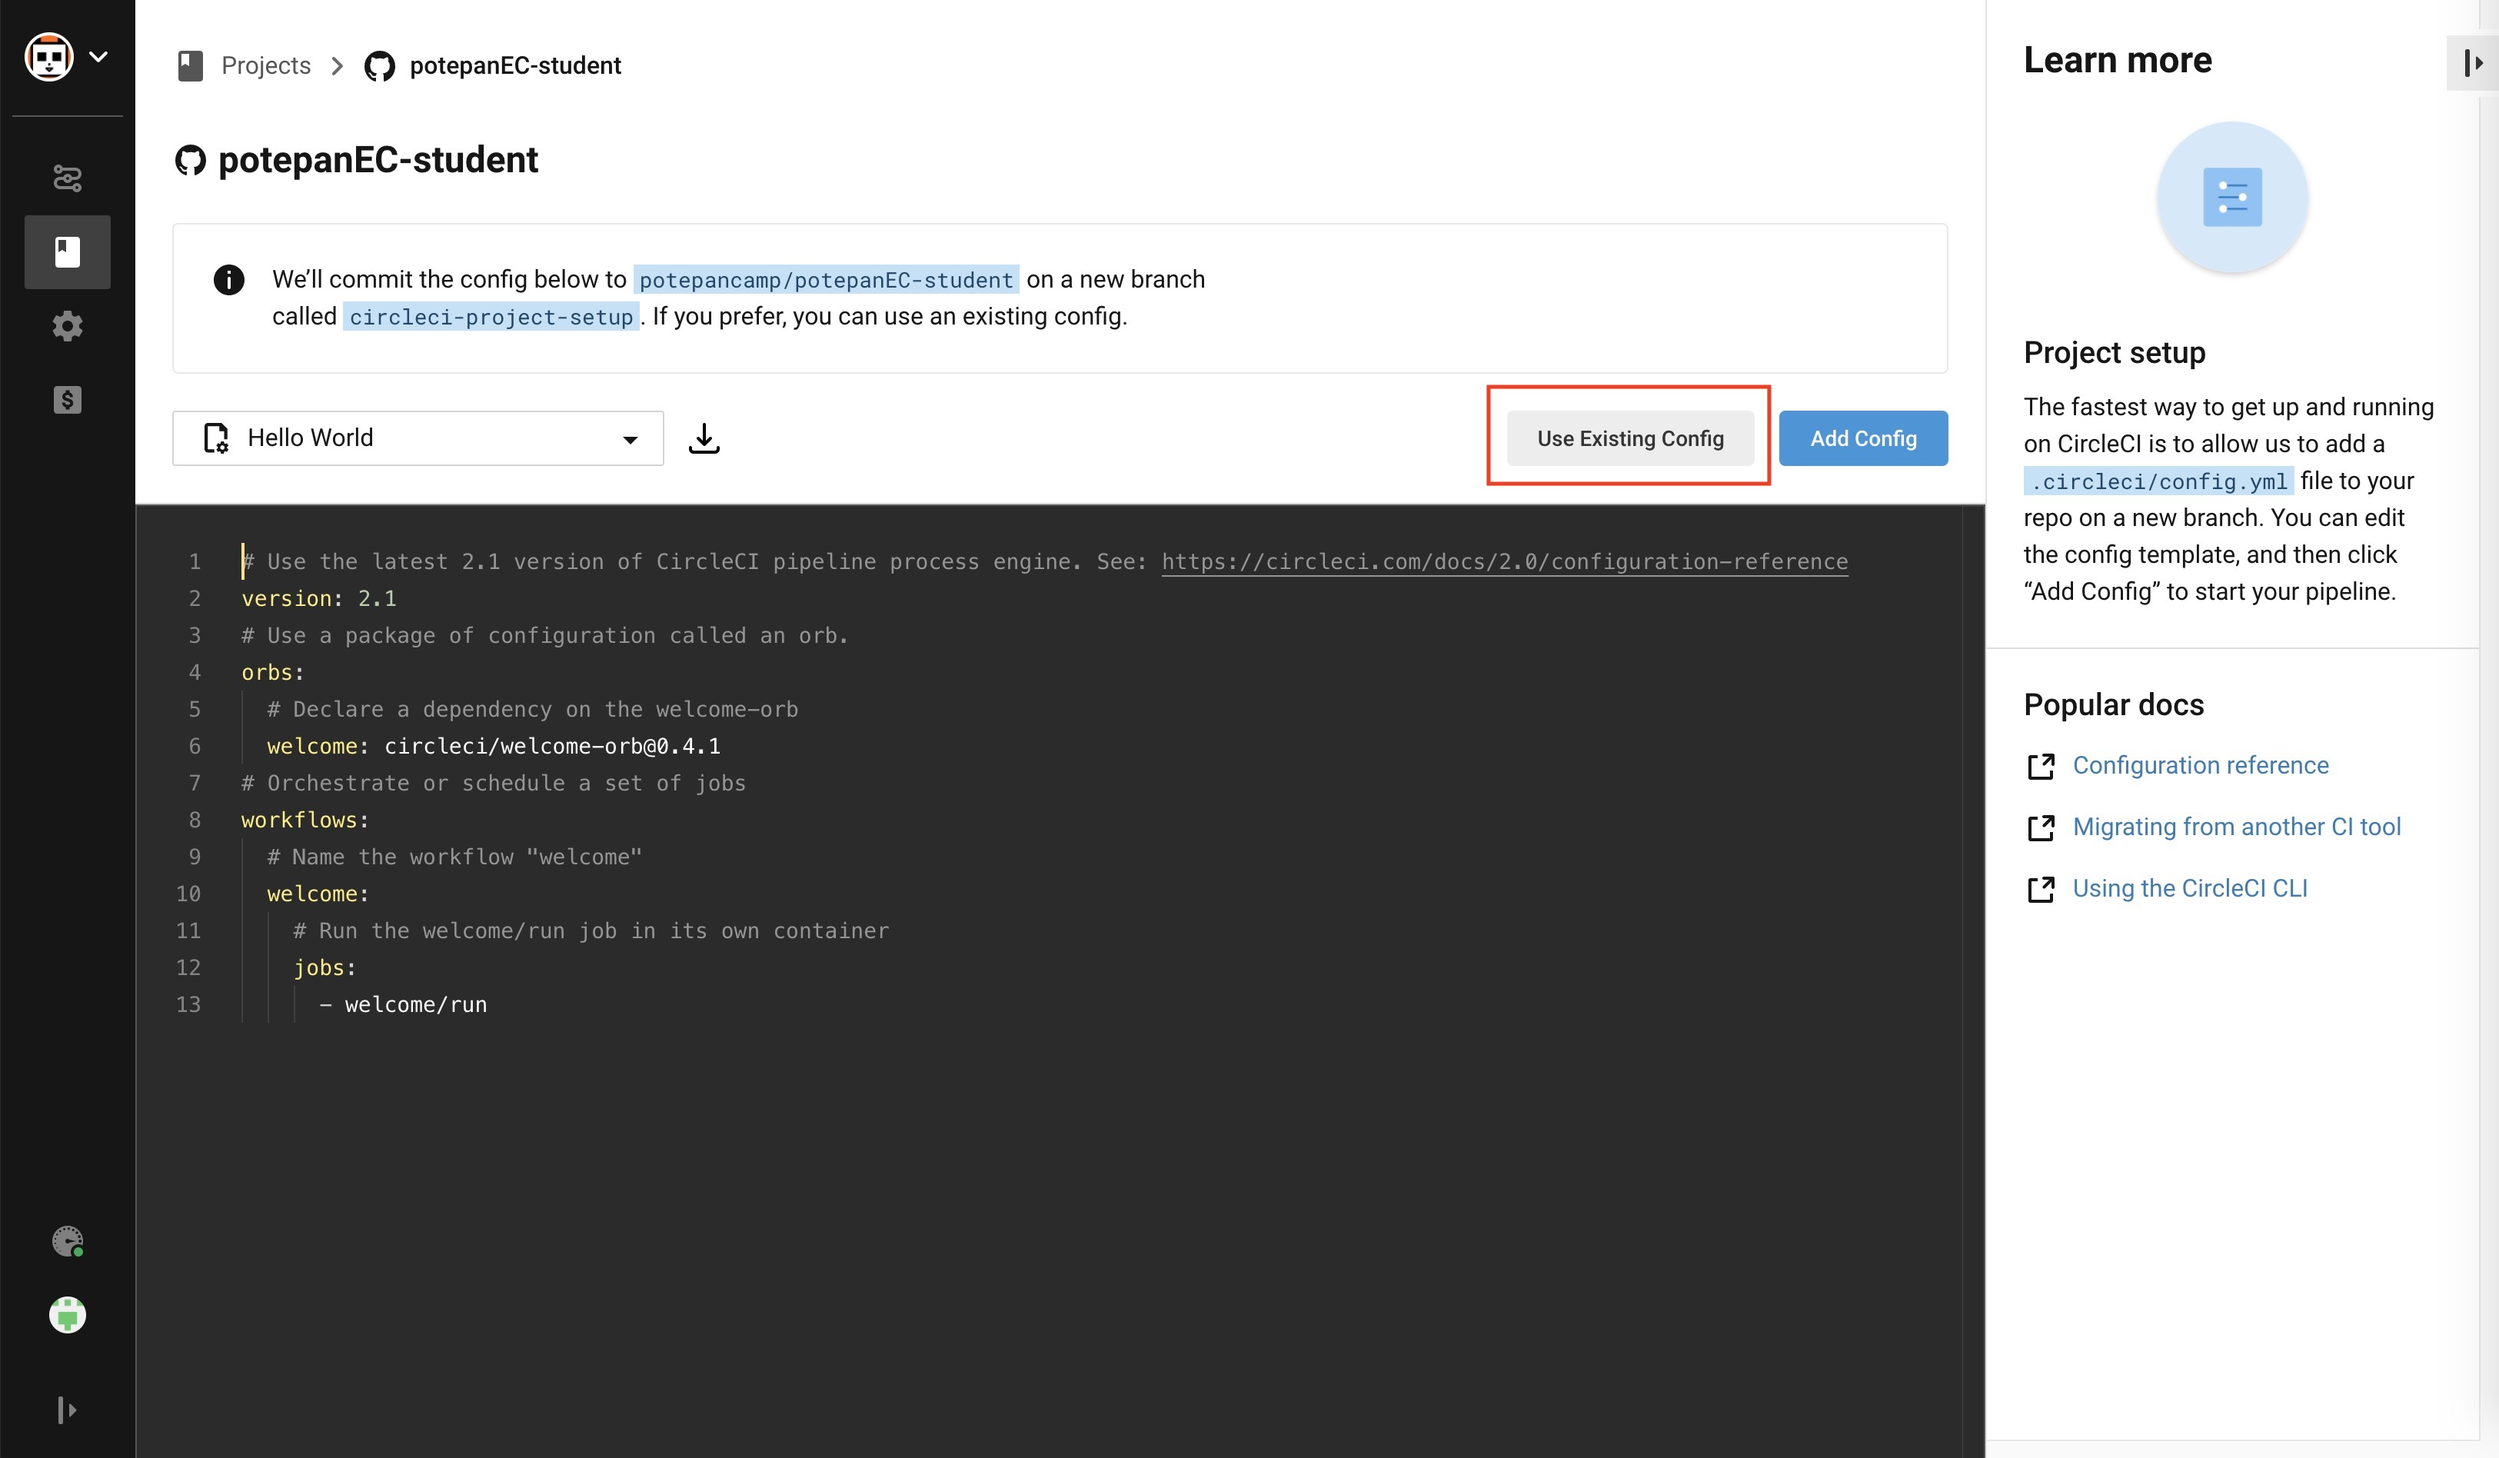
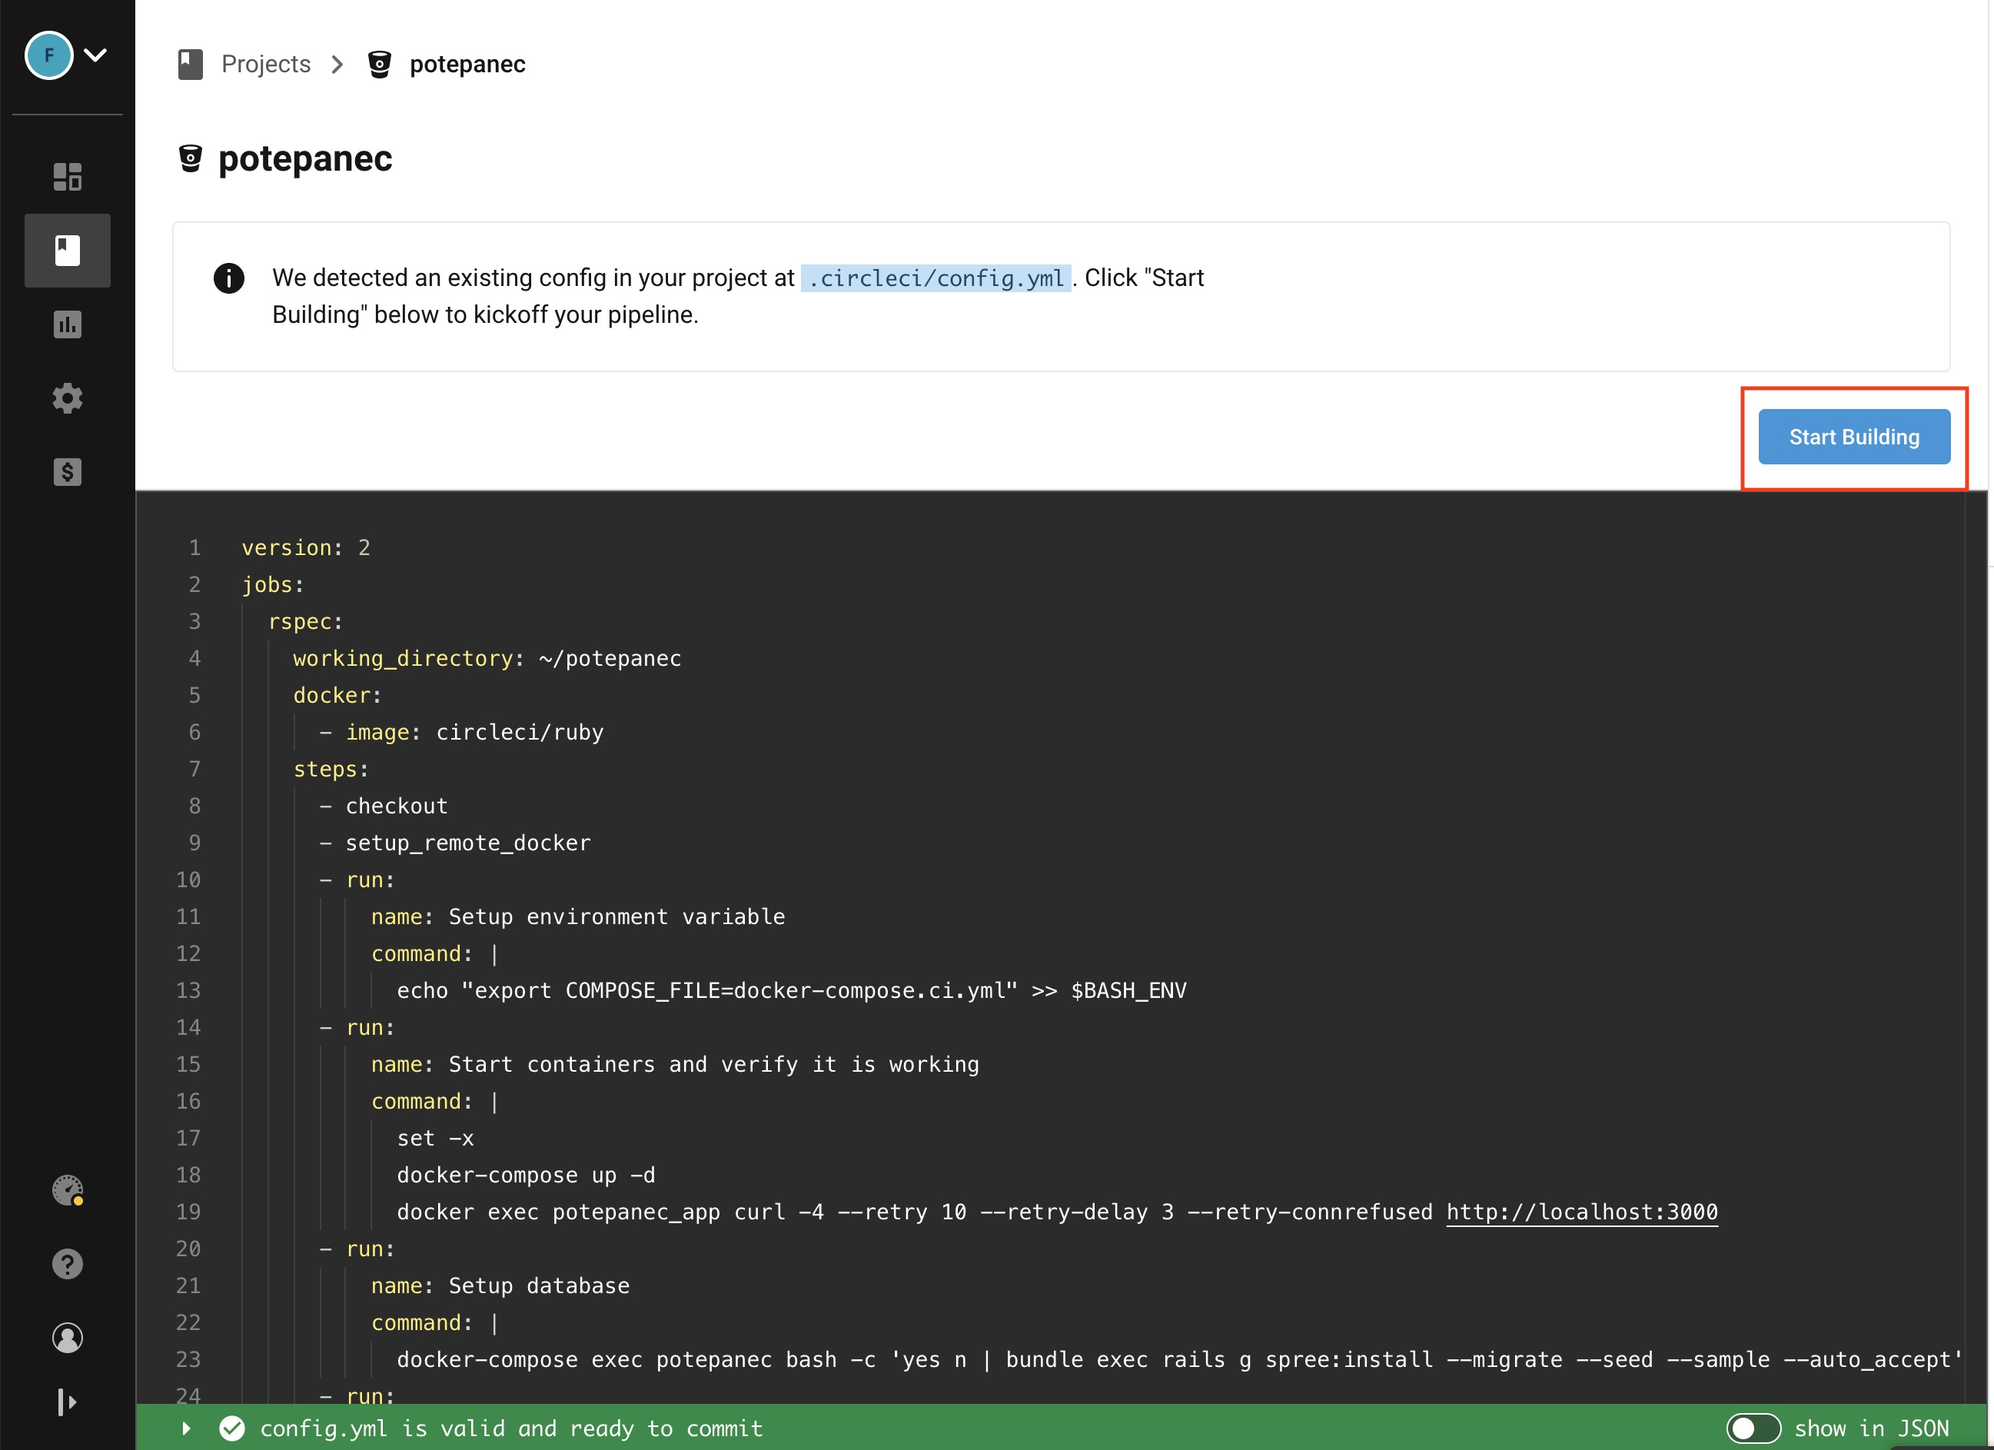
CircleCIの仕様変更に合わせてドキュメント修正

diff --git a/docs/CI/CircleCI.md b/docs/CI/CircleCI.md
@@ -22,7 +22,7 @@ Sign Upの際に`Select an organization`で`potepancamp`を選択します。
 画面左の`Add Projects`から、potepanecレポジトリ横にある`Set Up Project`を選択します。
 ![set up repo](../images/CI/setup_repo.png)
 
-`config.yml`を追加するためのステップが表示されていますが、potepanecレポジトリでは既に`.circleci/config.yml`に追加されています。ファイルがあることを確認できれば、次のステップに進むために`Use Existing Config`を選択し、その後の確認モーダルで`Start Building`を選択します。
+potepanecレポジトリの`.circleci/config.yml`が読み込まれていることを確認し、次のステップに進むために`Start Building`を選択します。
 ![start building](../images/CI/start_building.png)
 
 CircleCIが`.circleci/config.yml`に記載された手順に従ってビルドを開始する様子が確認できたでしょうか?
